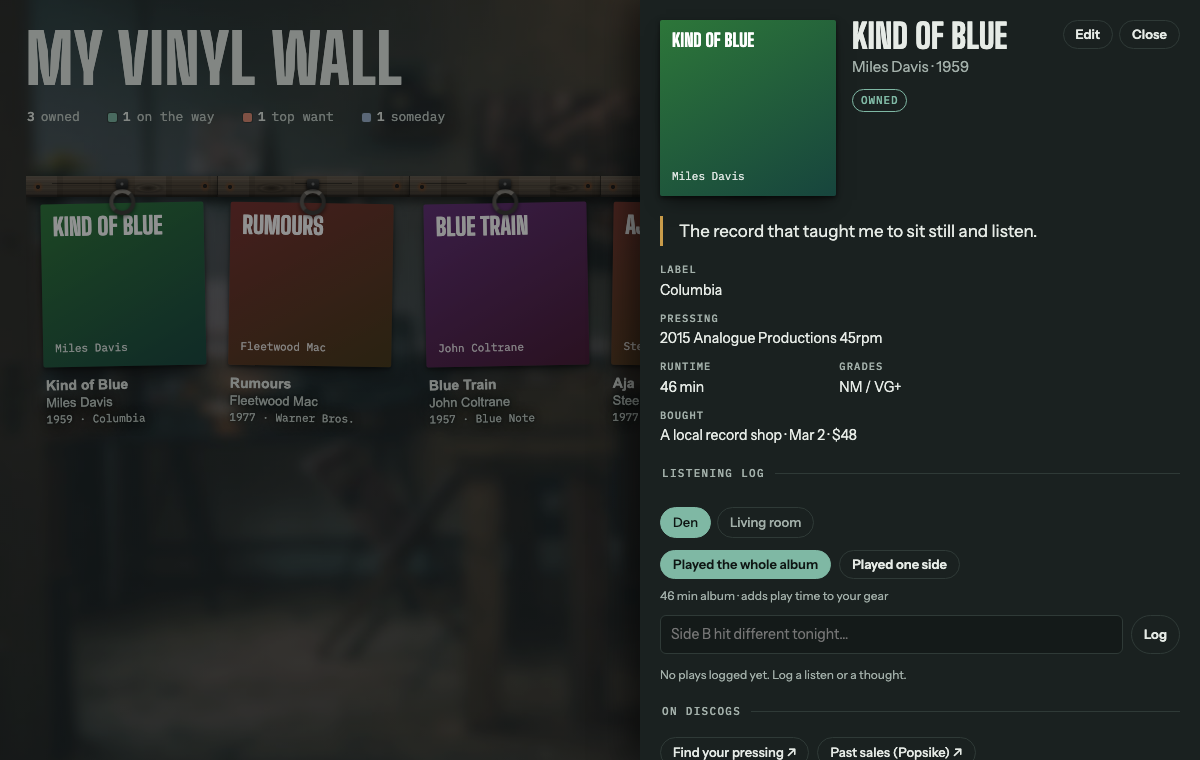
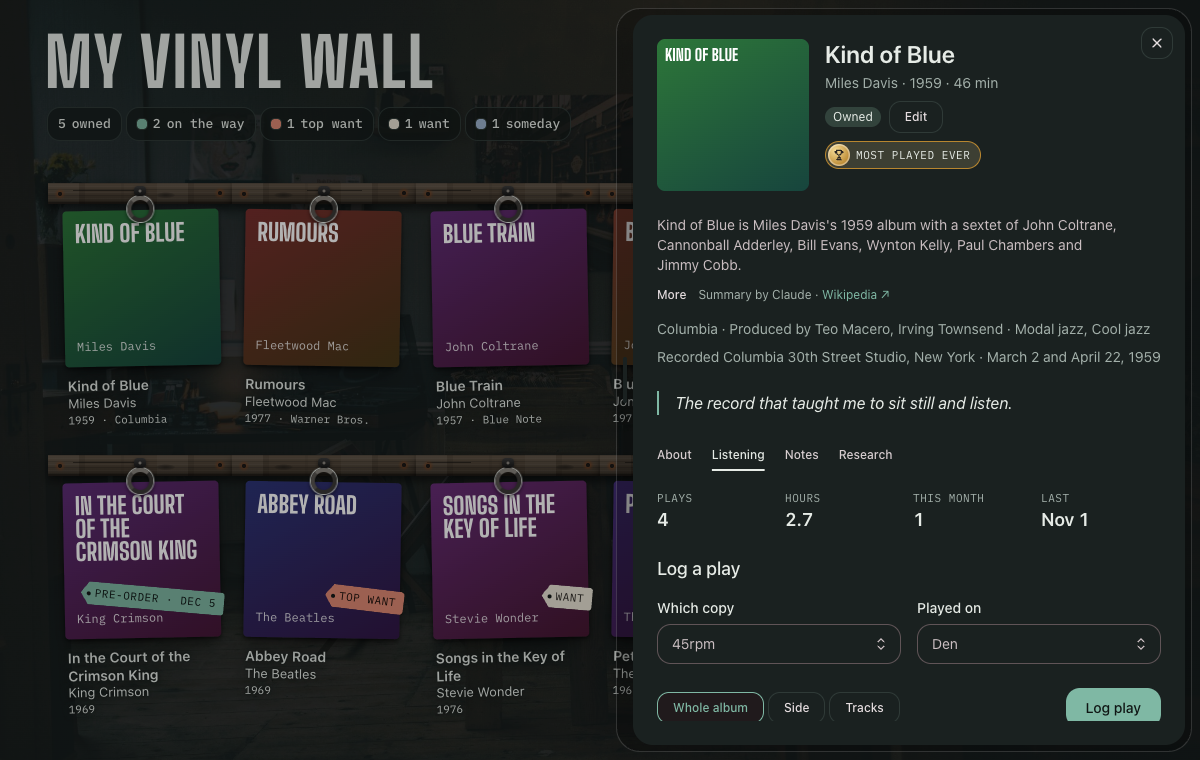
README for 0.9.7: features and screenshots brought up to date
The feature list now covers every pressing on one record, copies on order,
per-copy buy links, release dates and barcode links, Log a play by side,
tracks and copy with badges, the chat skill and the library file; the repo
table lists web/. Screenshots retaken from dev/preview.html on a demo seed.

diff --git a/README.md b/README.md
@@ -28,14 +28,16 @@ If something's missing, Claude tells you before building anything.
 
 ## Features
 
-- **The wall.** Every record hangs on the wall, from iron rings on a weathered barnwood plank, wooden pegs, push pins on cork, or floating (Settings → Hanging): what you own, then orders on the way by expected arrival, then the hunt by priority. Tags show each record's status, and tapping the counts under the title filters the wall to one or more of them. Search by title, artist, label or year to find a record fast. Hover (or tap) a sleeve to open it: a short list of the record's facts, its listening log, and an About section with the album and artist from Wikipedia and the artist's official links.
-- **The hunt.** A wishlist with priorities (Top want, Want, Someday) and the copies you want, each a pressing with its own budget. Your shops, local and online (Settings → Shops; Revolver, Amazon, Discogs Marketplace and eBay to start), each one click from a record, and research in your Claude chat, which checks your shops first, searches the web and saves what it finds to the record. Ask the chat to find record shops near you.
+- **The wall.** Every record hangs on the wall, from iron rings on a weathered barnwood plank, wooden pegs, push pins on cork, or floating (Settings → Hanging): what you own, then orders on the way by expected arrival, then the hunt by priority. Tags show each record's status, and tapping the counts under the title filters the wall to one or more of them. Search by title, artist, label or year to find a record fast. Open a sleeve for its record sheet: the album and artist from Wikipedia with the artist's official links, every pressing you have or want, and its listening, notes and research in tabs.
+- **The hunt.** A wishlist with priorities (Top want, Want, Someday) and the copies you want, each a pressing with its own budget, the shop pages that sell it, and its release date if it's a pre-order. Your shops, local and online (Settings → Shops; Revolver, Amazon, Discogs Marketplace and eBay to start), each one click from a record, searching for the album or, by barcode, the exact pressing. Research in your Claude chat checks your shops first, searches the web and saves what it finds to the record; pin what's worth keeping.
 - **Automatic details.** Add just an artist and album: the cover, year, label and runtime are looked up for you.
-- **Your copy.** Media and sleeve grades, catalog number, pressing, matrix/runout, where you bought it and what you paid.
-- **Orders.** Store, order number, status, expected date, carrier and tracking link. "It arrived" moves it to the wall.
-- **Listening log.** Dated notes per record, plus "Played the whole album" / "Played one side".
+- **Your copies.** Every pressing of an album you own lives on one record, each with its grades, catalog number, matrix/runout, where you bought it, what you paid, and its own tracklist and runtime. Own one pressing while you hunt for or order another.
+- **Orders.** Store, order number, status, expected date, carrier and tracking link, for a new record or another pressing of one you own. "It arrived" moves it to the wall.
+- **Listening log.** Log a whole album, one side or a few tracks, on the copy you played, with a note and a vibe. Plays, hours and badges for your most played records, plus dated notes per record.
 - **Equipment.** Turntables, cartridges, styluses, speakers and more, grouped into setups (e.g. Office, Living room) with shared gear. Plays add hours to the right gear; styluses warn you as they approach their rated life.
 - **Discogs sync (optional).** Owned records go to your Discogs collection with grades and notes; the hunt and orders go to your wantlist. Already on Discogs? Import your collection and wantlist in one tap.
+- **From a chat.** Save the Vinyl Wall skill to your Claude account, then add records from photos of the sleeve, research a pressing, find record shops near you, or merge two records of one album.
+- **Your library in a file.** Export everything to a file, and import it into a wall.
 - **Make it yours.** Rename the wall and pick a background: photos of a listening room, record shops, a coffee shop or a tavern, softened as much as you like, or patterns like speaker grille and walnut paneling. Or upload your own.
 - **Easy updates.** Settings tells you when a new version is out and what to send Claude.
 - Works on phones, and in light and dark mode.
@@ -64,7 +66,8 @@ The sync only writes to *your* collection and wantlist, and the import only adds
 
 | Path | What it is |
 |---|---|
-| `app/vinyl-wall.html` | The wall itself: one self-contained page |
+| `app/vinyl-wall.html` | The wall itself: one page, built from `web/` |
+| `web/` | The page's source (React and appica-ui) |
 | `app/tools/discogs_sync.py` | One-way sync from the wall to your Discogs collection and wantlist |
 | `app/tools/discogs_import.py` | One-time import of an existing Discogs collection and wantlist onto the wall |
 | `app/tools/barcodes.py` | Keeps each copy's barcodes from its Discogs release, so a shop's barcode page opens that pressing |
@@ -72,7 +75,7 @@ The sync only writes to *your* collection and wantlist, and the import only adds
 | `app/tools/lookup.py` | Looks up covers, details and album and artist info for new records, a few at a time |
 | `app/backgrounds/` | The photo backgrounds |
 | `tasks/background-task.md` | Instructions for the background task (covers, runtimes, Discogs) |
-| `skills/vinyl-wall/SKILL.md` | A Claude skill for adding records from a chat; setup offers to save it to your account |
+| `skills/vinyl-wall/SKILL.md` | A Claude skill for adding records, research, shops and merging records from a chat; setup offers to save it to your account |
 | `SETUP.md` | Step-by-step instructions Claude follows to install or update a wall |
 
 ## Credits and licenses
